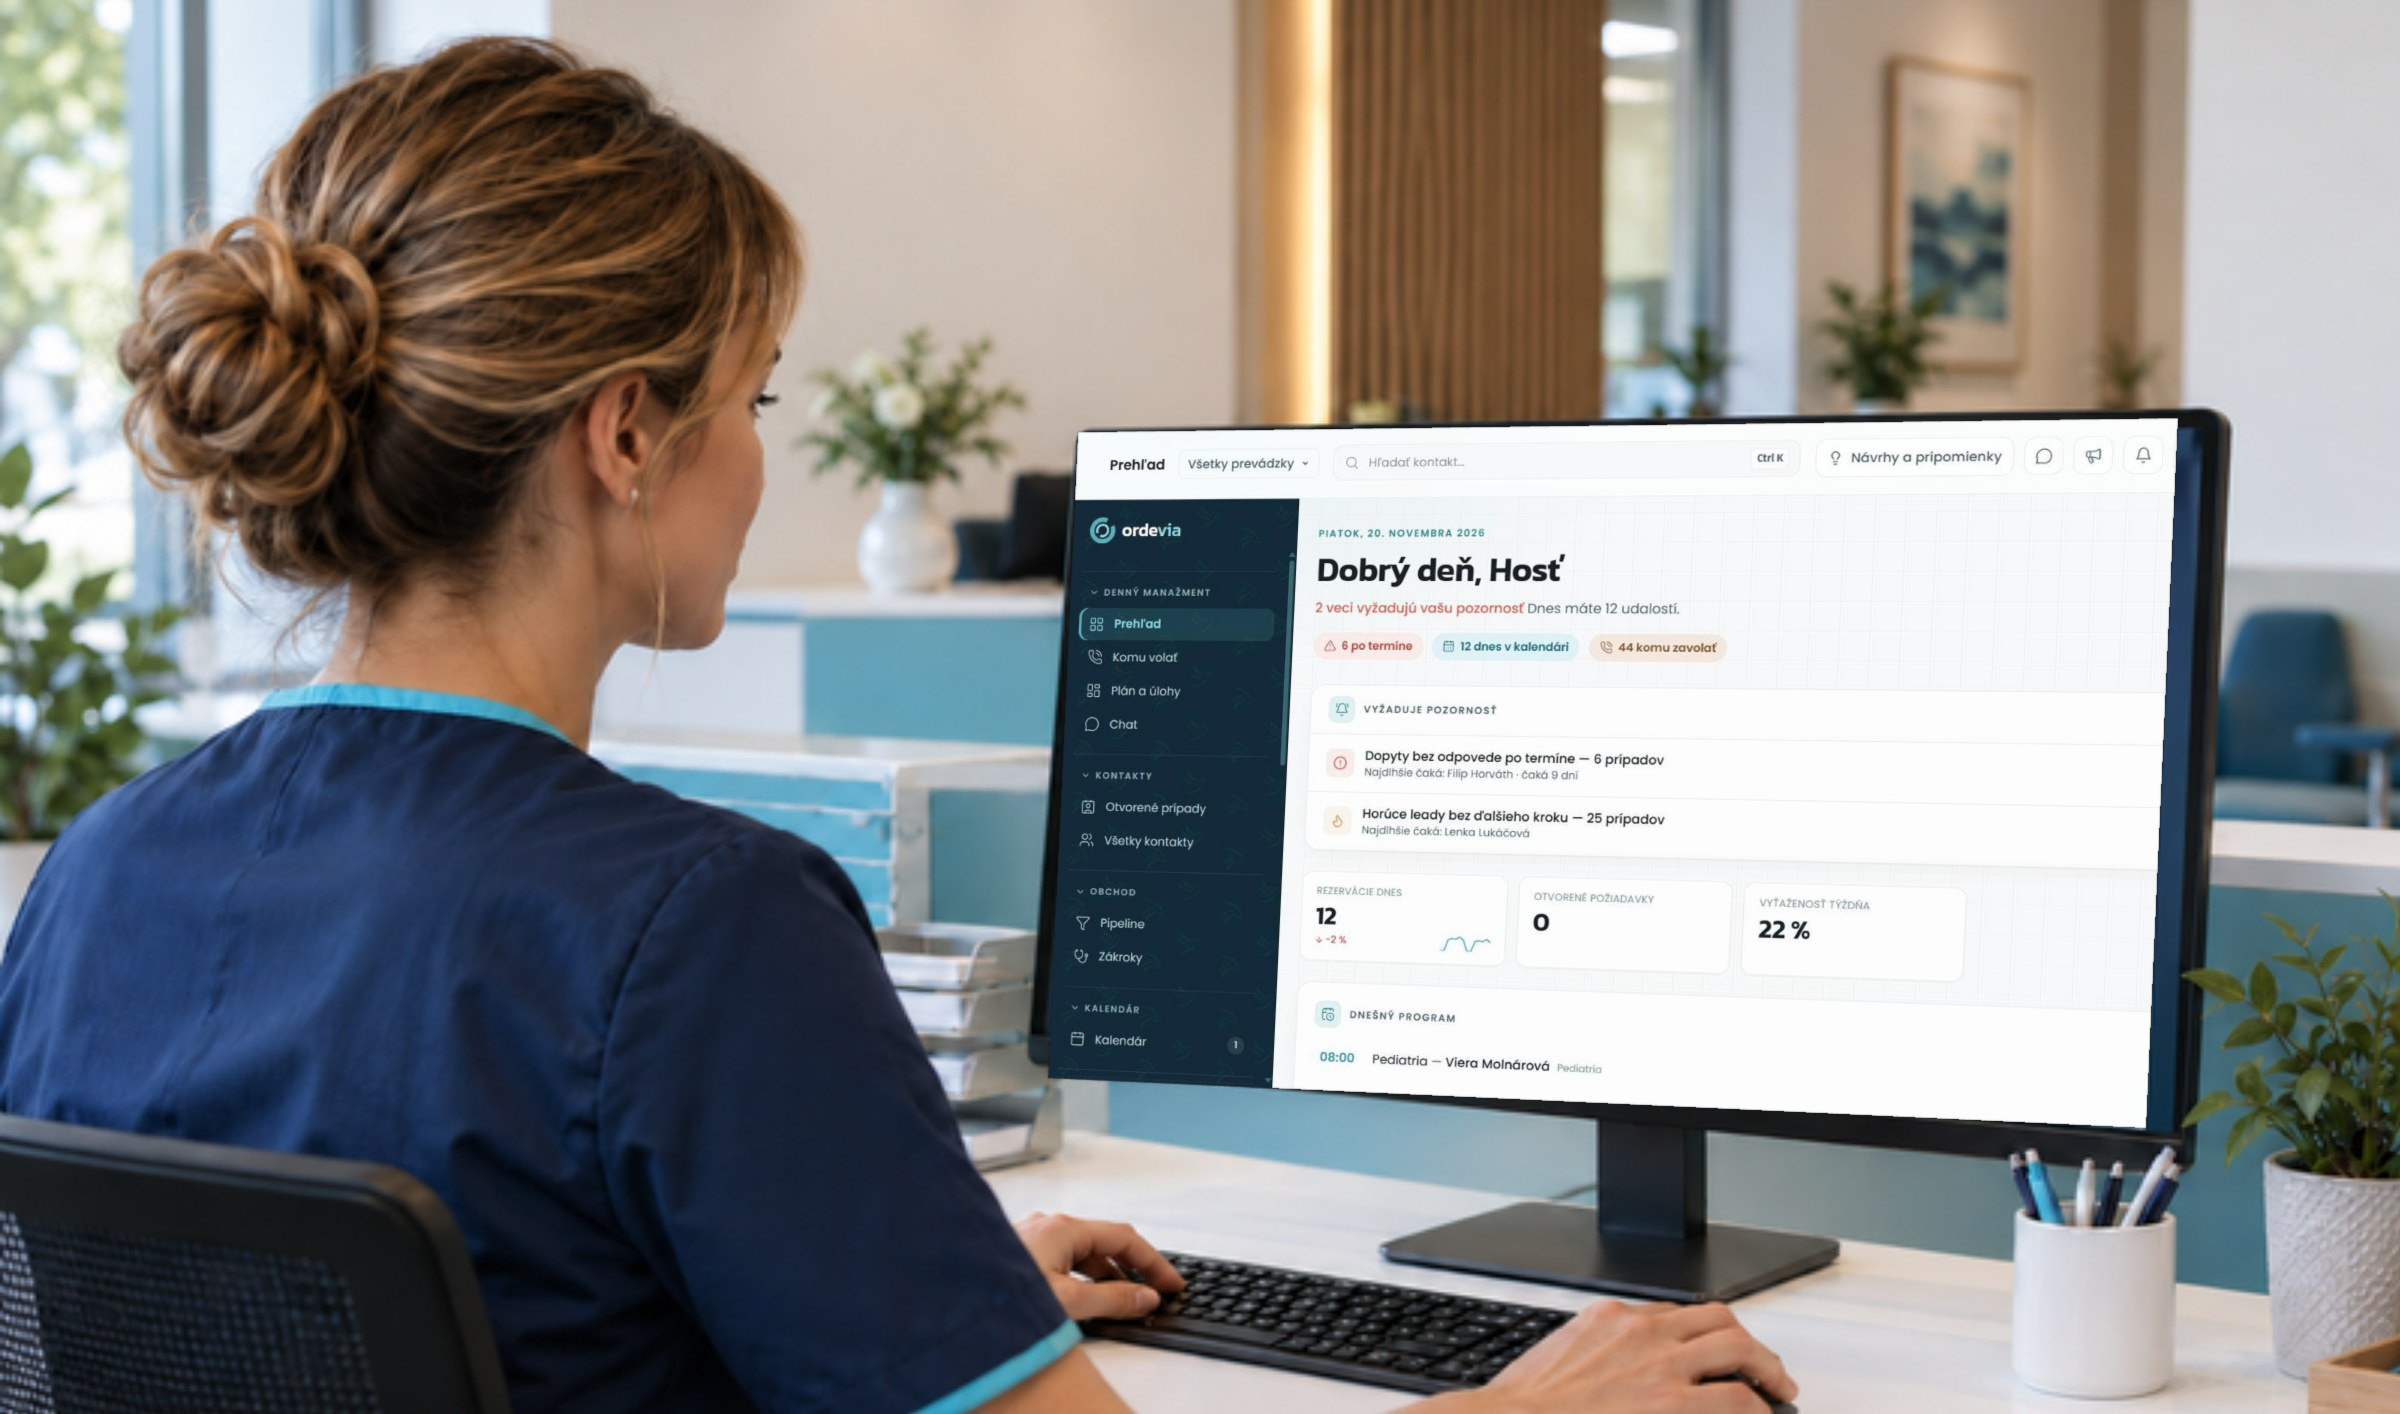
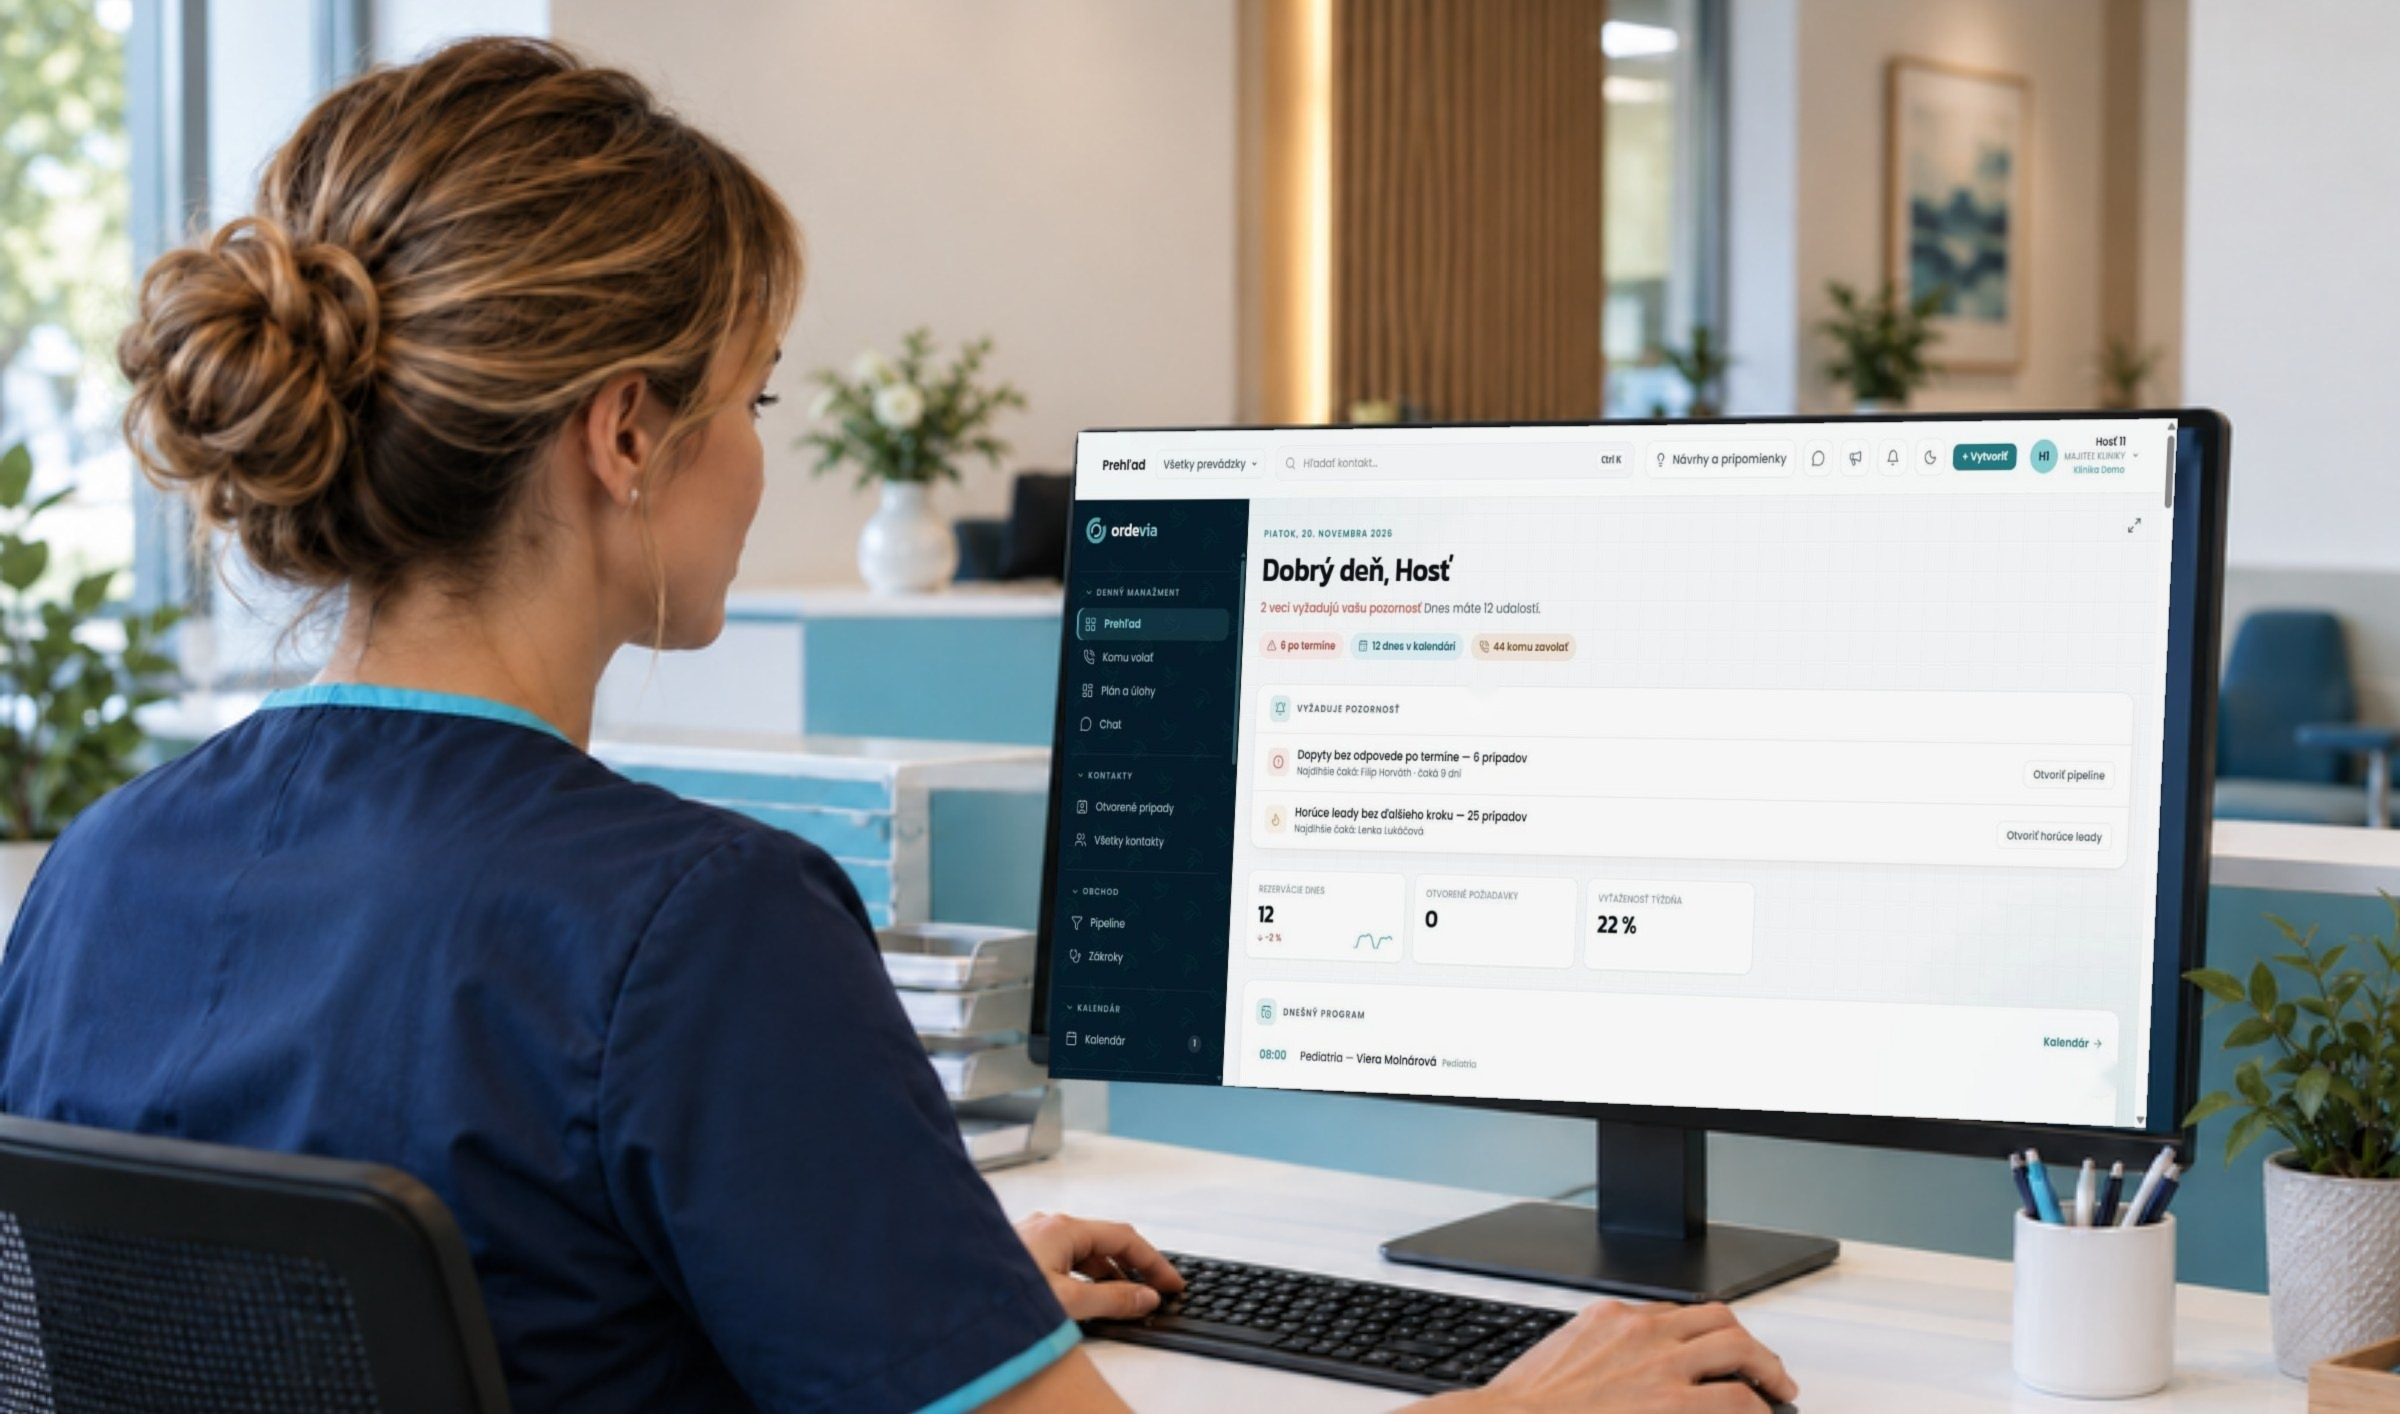
Ordevia: ilustracia - demo obrazovka napasovana na monitor (v2)
Viktor: predchadzajuca verzia vyzerala nalepene a text bol rozmazany.
Pouzita ostrejsia snimka z dema (1536 px) v perspektive monitora,
odstraneny kurzor a pomocna ikona.

Claude-Session: https://claude.ai/code/session_01CY1rGeneDbr7V5S8Nyn2aN

diff --git a/CHANGELOG.md b/CHANGELOG.md
@@ -1,3 +1,15 @@
+## 2026-11-20 – Ordevia ilustrácia: demo obrazovka napasovaná na monitor (v2)
+
+**Čo sa zmenilo**: Obrazovka na monitore v ilustrácii je nahradená ostrejšou snímkou z dema (1536 px) prepočítanou do perspektívy monitora. Odstránený kurzor myši a pomocná ikona v pravom dolnom rohu snímky.
+
+**Prečo**: Viktor 20. 11. 2026 napísal, že predchádzajúca verzia vyzerá nalepene a text na monitore bol rozmazaný. Poslaná snímka mala len 795 × 537 px, preto sme použili väčší zdroj s rovnakým obsahom.
+
+**Dotknuté súbory**: `public/images/ordevia/crm-ilustracia-ambulancia.jpg`.
+
+**Čo treba doplniť ručne**: nič.
+
+**Pozor na**: zdroj snímky je demo účtu; ak sa demo zmení, obrázok sa nezmení sám.
+
 ## 2026-11-20 – Ordevia: nadpis, ilustrácia a karty CRM a Conect
 
 **Čo sa zmenilo**: Hlavička stránky `/sluzby/webova-aplikacia-ordevia` má len nadpis „Ordevia – vaša inteligentná ambulancia“ (podnadpis a štítok sú odstránené). Pod ňou je ilustrácia zdravotnej sestry pri počítači s prehľadom CRM a pod ňou dve karty s ikonami: najskôr **Ordevia CRM** (pre vašu ambulanciu), potom **Ordevia Conect** (pre vašich pacientov). Blok „Čo je čo“ z 20. 11. 2026 bol nahradený týmito kartami.
